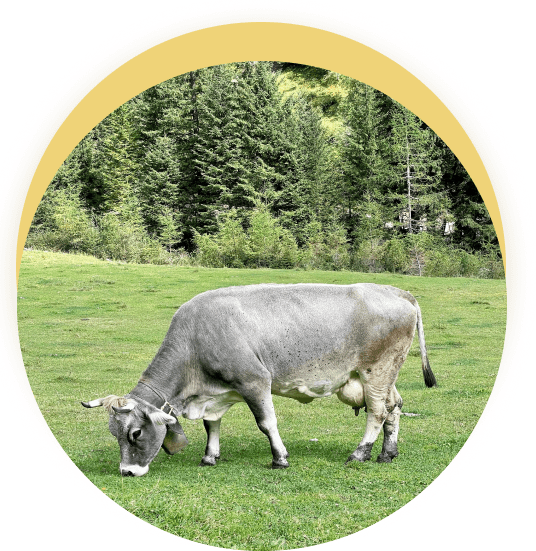
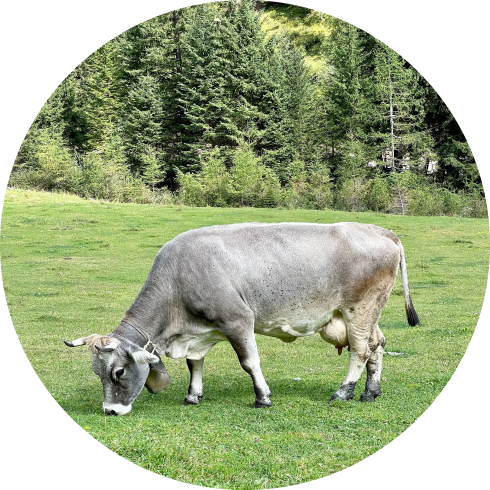
внес правки

diff --git a/src/sass/componetns/_about.scss b/src/sass/componetns/_about.scss
@@ -41,8 +41,12 @@
 
     @media screen and (min-width: $tablet) {
         flex-direction: row;
-        justify-content: center;
+        justify-content: space-between;
     }
+
+        @media screen and (min-width: $desktop) {
+            padding-right: 121px;
+        }
 }
 
 .cow {
@@ -50,14 +54,33 @@
     height: 300px;
     margin-bottom: 40px;
 
+    background: #d9d9d9;
+    box-shadow: 0px 8px 30px rgba(153, 114, 23, 0.25);
+    border-radius: 50%;
+
+    background-image: url(../images/about/cow.png), linear-gradient(rgba(248, 210, 78, 0.7) 0% 100%);
+    background-repeat: no-repeat;
+    background-size: 280px, 300px;
+    background-position: 0 22px, 0;
+
+    @media (min-device-pixel-ratio: 2),
+        (min-resolution: 192dpi),
+        (min-resolution: 2dppx) {
+        background-image: url(../images/about/cow@2x.png), linear-gradient(rgba(248, 210, 78, 0.7) 0% 100%);
+        }
+
     @media screen and (min-width: $tablet) {
         width: 330px;
         height: 356px;
+        background-position: 0 26px, 0;
+        background-size: 330px, 356px;
     }
 
     @media screen and (min-width: $desktop) {
         width: 491px;
         height: 529px;
+        background-position: 0 36px, 0;
+        background-size: 491px, 529px;
     }
 }
 
@@ -68,7 +91,6 @@
 
     @media screen and (min-width: $tablet) {
         align-items: flex-start;
-        margin-left: 38px;
     }
 
     &:nth-child(1) {
@@ -84,14 +106,12 @@
         color: $color-white;
 
         width: 100%;
+        padding: 0 30px;
         max-width: 450px;
-        margin-left: 50px;
-        margin-right: 50px;
 
         @media screen and (min-width: $tablet) {
             text-align: start;
-            margin-left: 0;
-            margin-right: 0;
+            padding: 0;
             width: 336px;
             margin-bottom: 8px;
         }
@@ -173,12 +193,13 @@
     display: flex;
     flex-direction: column;
     align-items: center;
+    justify-content: center;
 
     @media screen and (min-width: $tablet) {
         padding: 32px 60px;
     }
 
-    &--close {
+    &__close {
         position: absolute;
         top: 12px;
         right: 12px;
@@ -199,7 +220,7 @@
         }
     }
 
-    &--caption {
+    &__caption {
         font-family: 'Seymour One';
         font-weight: 400;
         font-size: 16px;
@@ -210,7 +231,7 @@
         color: $color-black;
     }
 
-    &--video {
+    &__video {
         width: 100%;
         max-width: 450px;
         border-radius: 10px;
@@ -225,7 +246,7 @@
         }
     }
 
-    &--information {
+    &__information {
         font-weight: 400;
         line-height: 140%;
         max-width: 450px;

diff --git a/src/partials/about.html b/src/partials/about.html
@@ -1,9 +1,9 @@
 <section class="section about">
   <div class="container">
     <p class="caption-label">tradition and love</p>
-    <h2 class="caption">how it’s made?</h2>
+    <h2 class="caption" id="made">how it’s made?</h2>
     <div class="information">
-      <img class="cow" src="./images/about/cow.png" alt="cow" />
+      <div class="cow"></div>
       <div class="read-more">
         <p class="read-more--information">
           Ice is a place where you will become not only a little happier, but
@@ -16,7 +16,9 @@
           three years. Sweets lovers can expect 55 types of ice cream, 15 types
           of coffee and 23 milkshakes.
         </p>
-        <p class="read-more--additional-information">This is enough to choose ice cream and coffee for any mood!</p>
+        <p class="read-more--additional-information">
+          This is enough to choose ice cream and coffee for any mood!
+        </p>
         <button class="read-more__button" type="button" data-modal-open>
           Read more
           <svg class="read-more__button--icon" width="12" height="12">
@@ -26,14 +28,14 @@
       </div>
     </div>
     <div class="is-hidden modal-read-more" data-modal>
-      <button class="modal-read-more--close" type="button" data-modal-close>
-        <svg class="modal-read-more--close--icon" width="20" height="20">
+      <button class="modal-read-more__close" type="button" data-modal-close>
+        <svg class="modal-read-more__close--icon" width="20" height="20">
           <use href="./images/icons.svg#icon-close"></use>
         </svg>
       </button>
-      <h2 class="modal-read-more--caption">How it’s made?</h2>
+      <h2 class="modal-read-more__caption">How it’s made?</h2>
       <iframe
-        class="modal-read-more--video"
+        class="modal-read-more__video"
         width="560"
         height="315"
         src="https://www.youtube.com/embed/omoCbKv7zaE"
@@ -42,7 +44,7 @@
         allow="accelerometer; autoplay; clipboard-write; encrypted-media; gyroscope; picture-in-picture"
         allowfullscreen
       ></iframe>
-      <p class="modal-read-more--information">
+      <p class="modal-read-more__information">
         Lorem ipsum dolor sit amet, consectetur adipiscing elit, sed do eiusmod
         tempor incididunt ut labore et Lorem ipsum dolor sit amet, consectetur
         adipiscing elit, sed do eiusmod tempor incididunt ut labore et

diff --git a/src/partials/advantages.html b/src/partials/advantages.html
@@ -2,21 +2,21 @@
   <div class="container">
     <h2 class="visially-hidden">statistics</h2>
     <ul class="statistic">
-      <li class="statistic--section">
-        <h3 class="statistic--section--amount">721</h3>
-        <p class="statistic--section--explanation">
+      <li class="statistic__section">
+        <p class="statistic__section--amount">721</p>
+        <p class="statistic__section--explanation">
           Aliquam ac dui vel dui vulputate consectetur. Mauris massa.
         </p>
       </li>
-      <li class="statistic--section">
-        <h3 class="statistic--section--amount">16kg</h3>
-        <p class="statistic--section--explanation">
+      <li class="statistic__section">
+        <p class="statistic__section--amount">16kg</p>
+        <p class="statistic__section--explanation">
           Aliquam ac dui vel dui vulputate consectetur. Mauris massa.
         </p>
       </li>
-      <li class="statistic--section">
-        <h3 class="statistic--section--amount">84</h3>
-        <p class="statistic--section--explanation">
+      <li class="statistic__section">
+        <p class="statistic__section--amount">84</p>
+        <p class="statistic__section--explanation">
           Aliquam ac dui vel dui vulputate consectetur. Mauris massa.
         </p>
       </li>

diff --git a/src/sass/componetns/_advantages.scss b/src/sass/componetns/_advantages.scss
@@ -13,7 +13,7 @@
         flex-direction: column;
     }
 
-    &--section {
+    &__section {
         display: flex;
         flex-direction: column;
         align-items: center;
